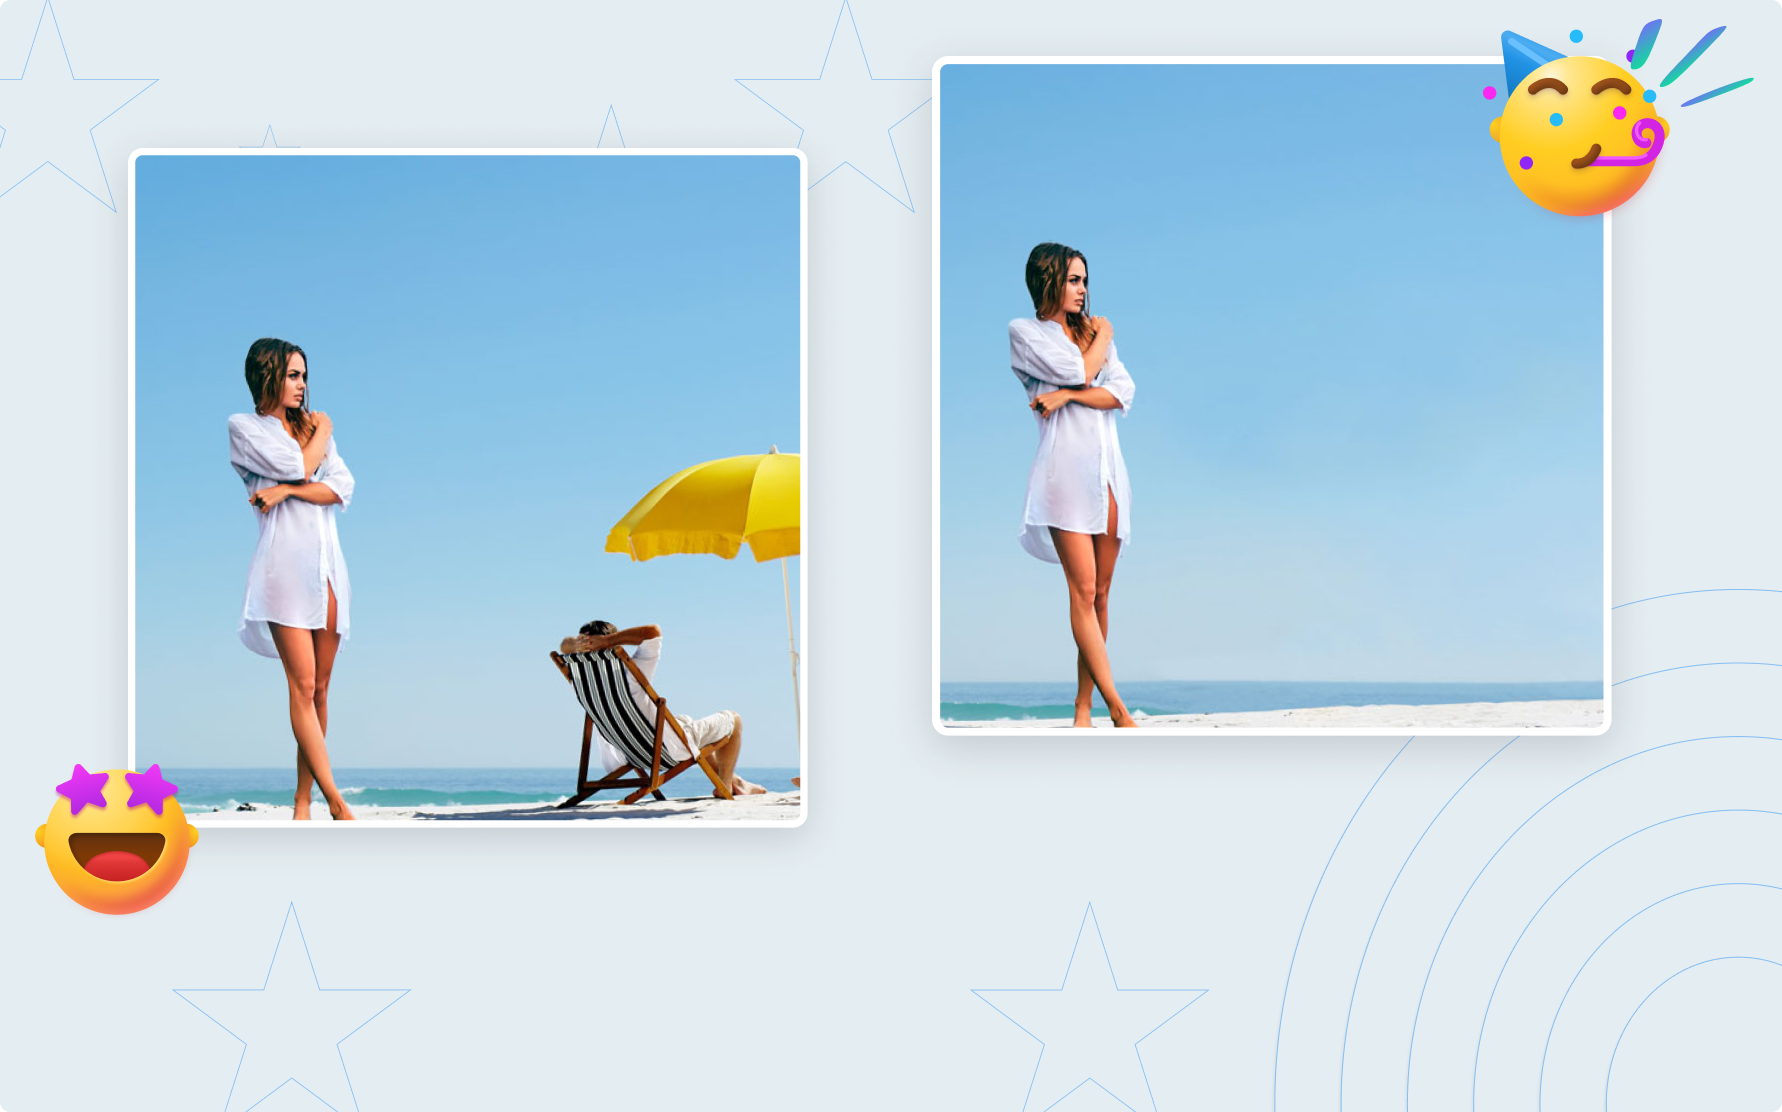
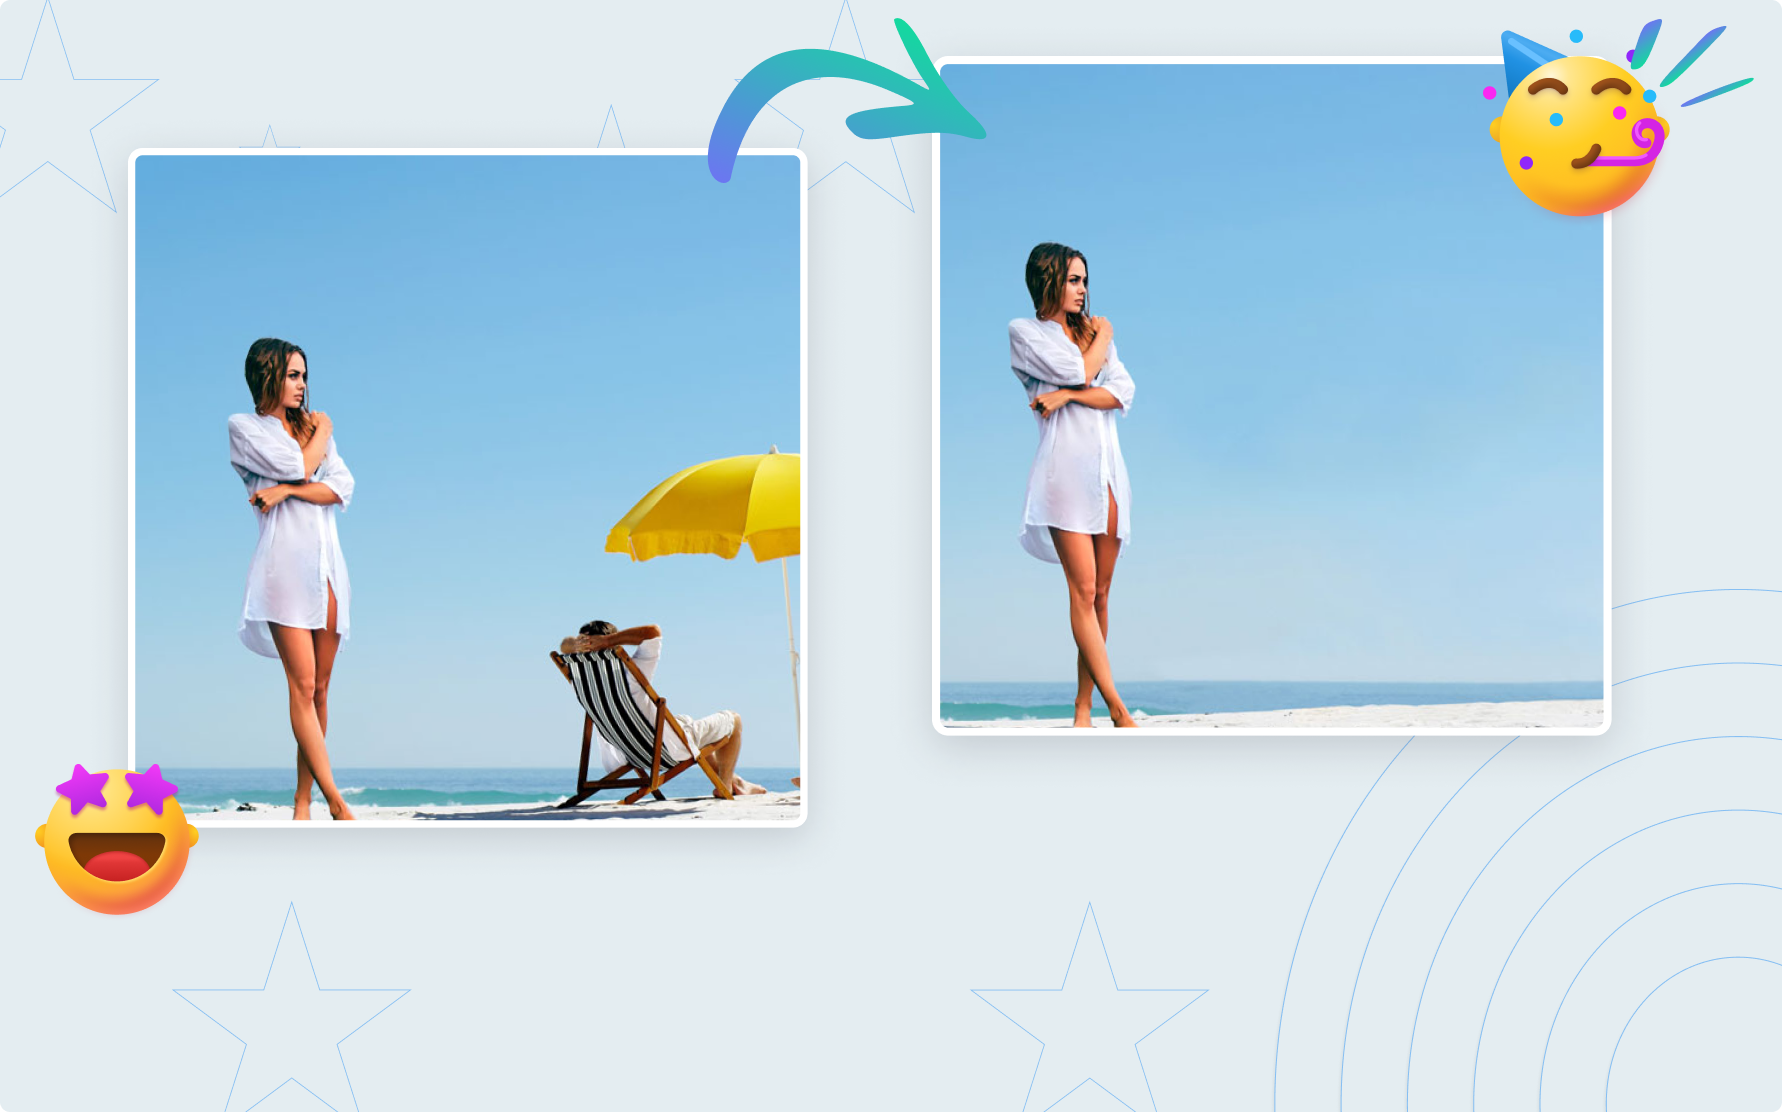
fix goback when after saved image

Changed region(s): [[0.3704, 0.0, 0.5556, 0.1835]]

diff --git a/lib/controllers/edit/edit_controller.dart b/lib/controllers/edit/edit_controller.dart
@@ -98,6 +98,9 @@ class EditController extends ValueNotifier<EditValue> {
   bool get isErase => state.freeStyleMode == FreeStyleMode.erase;
   bool get isAI => state.freeStyleMode == FreeStyleMode.none;
 
+  bool _savedImage = false;
+  bool get canBack => prevPainterState == null || _savedImage;
+
   //action
   bool get canUndo => state.canUndo;
   bool get canRedo => state.canRedo;
@@ -166,6 +169,7 @@ class EditController extends ValueNotifier<EditValue> {
   }
 
   Future<void> remove({bool Function()? onStart, Function(EraseResponse?)? onEnd}) async {
+    _savedImage = false;
     if (!_internet.hasConnection) {
       printLog('No internet');
       showDialog(
@@ -262,6 +266,7 @@ class EditController extends ValueNotifier<EditValue> {
     );
 
     if (result != null && result['filePath'] != null) {
+      _savedImage = true;
       String imagePath = result['filePath'];
       imagePath = imagePath.substring(7, imagePath.length);
       onImagePath(imagePath);

diff --git a/lib/pages/edit/edit_page.dart b/lib/pages/edit/edit_page.dart
@@ -42,7 +42,7 @@ class _EditPageState extends CustomOverlayState<EditPage> {
   }
 
   Future<void> goBack() async {
-    if (_controller.prevPainterState != null) {
+    if (!_controller.canBack) {
       showDialog(
         context: context,
         barrierDismissible: false,
